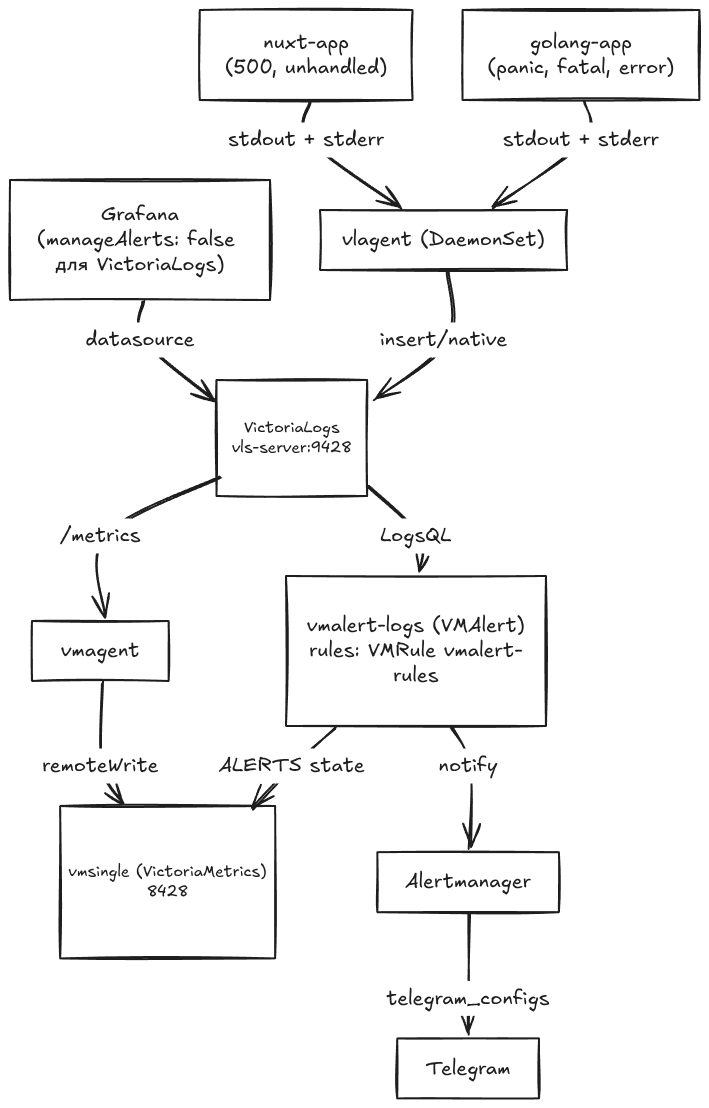
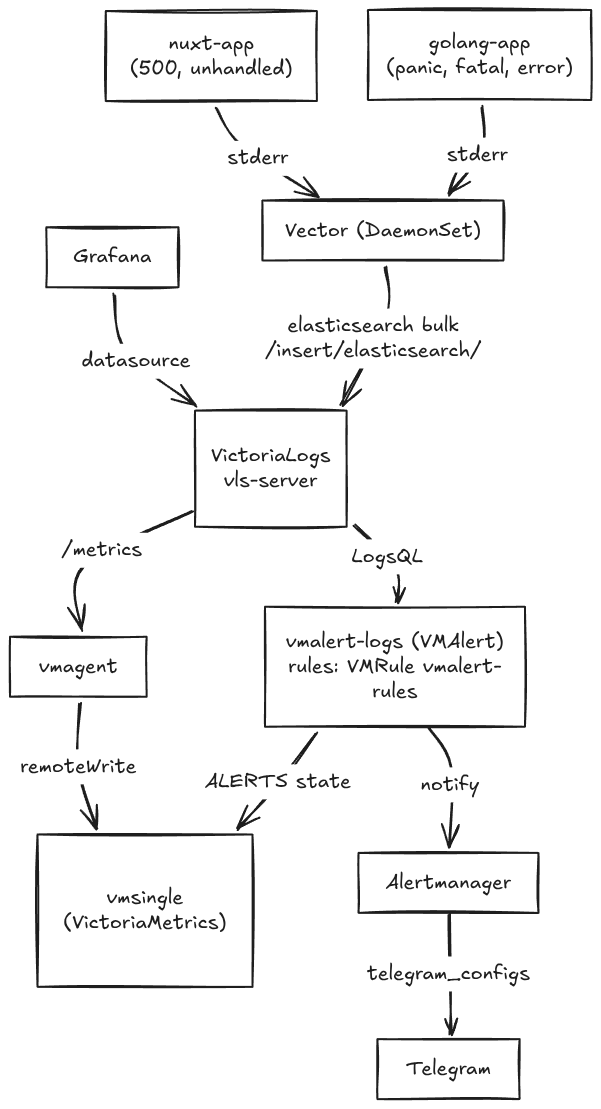
замена mermaid-схемы архитектуры на PNG в README

Changed region(s): [[0.0, 0.0, 1.0, 1.0], [0.8686, 0.5523, 0.8985, 0.6444], [0.5092, 0.7671, 0.5391, 0.8285]]

diff --git a/README.md b/README.md
@@ -17,22 +17,7 @@ vlagent не используем из-за [VictoriaMetrics/VictoriaLogs#1790](
 - **Правила живут в коде, а не в Grafana UI** — почему, разберём в Шаге 1;
 - **Alertmanager шлёт алерты в Telegram** нативным `telegram_configs` (Шаг 6).
 
-```mermaid
-flowchart TD
-    Go["golang-app<br/>(panic, fatal, error)"] -->|stdout + stderr| Vector["Vector (DaemonSet)"]
-    Nuxt["nuxt-app<br/>(500, unhandled)"] -->|stderr| Vector
-    Vector -->|elasticsearch bulk<br/>/insert/elasticsearch/| VL[("VictoriaLogs<br/>vls-server:9428")]
-
-    VL -->|LogsQL| VMA["vmalert-logs (VMAlert)<br/>rules: VMRule vmalert-rules"]
-    VMA -->|ALERTS state| VMSingle[("vmsingle (VictoriaMetrics)<br/>8428")]
-    VMA -->|notify| AM["Alertmanager"]
-    AM -->|telegram_configs| TG["Telegram"]
-
-    Grafana["Grafana"] -->|datasource| VL
-
-    VL -->|/metrics| VMAgent["vmagent"]
-    VMAgent -->|remoteWrite| VMSingle
-```
+![Архитектура](архитектура.png)
 
 Поток данных:
 
